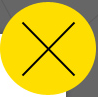
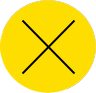
Correct close button and increased popup padding

diff --git a/styles/style.css b/styles/style.css
@@ -166,9 +166,9 @@ header .tweet {font-size: 32px; font-weight: bold; color: #fff; line-height: 32p
 .training p {line-height: 18px; margin: 6px 0;}
 .training .righter p {margin: 5px 0;}
 
-.popup {display:none; position: absolute; padding: 25px ;background-color: white;}
+.popup {display:none; position: absolute; padding: 35px ;background-color: white;}
 .popup .slide-inner {width: 600px;}
-.popup .close {background: url(../images/close.png) no-repeat left top; cursor: pointer; height: 98px; width: 97px; overflow: hidden; position: absolute; right: -31px; top: -34px;}
+.popup .close {background: url(../images/close.png) no-repeat left top; cursor: pointer; height: 93px; width: 96px; overflow: hidden; position: absolute; right: -31px; top: -34px;}
 .popup h1 {font-size: 38px; color: black; line-height: 38px; letter-spacing: -1.5px;}
     
 #courses-list {padding-top: 8px; padding-left: 6px;}
